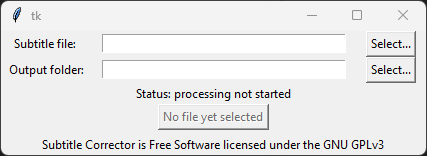
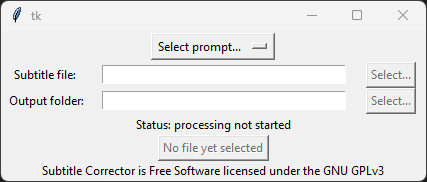
Documentation updated.

diff --git a/subtitlecorrector.py b/subtitlecorrector.py
@@ -141,7 +141,7 @@ Please do not use overly formal language.'''
         except openai.APITimeoutError as e:
             print("Request #{} timed out: {}".format(query_number, e))
             print("Failed query text: {}{}".format(os.linesep, query_str))
-            return(query_str)
+            return (query_str)
         except openai.APIError as e:
             print("API returned error at request #{}: {}".format(query_number, e))
             print("Failed query text: {}{}".format(os.linesep, query_str))

diff --git a/README.md b/README.md
@@ -1,30 +1,44 @@
 # Subtitle Corrector
-This program aims to streamline the process of error checking automatically generated subtitles by leveraging ChatGPT.
+This program is a general purpose subtitle modifier powered by GPT4.
+
+You can use this program for any number of purposes for example:
+- Correcting error filled subtitles from a faulty transcript.
+- Translating a given subtitle from language X to language Y.
+- Turning a horror film into a comedy by making every character speak in outdated slang.
+
 ## Documentation:
-### Installing openai API key:
-Prior to using the program the user has to specify their openai API key so that the program can successfully query chatGPT.
+### Installing OpenAI API key:
+Before you can use the program, your OpenAI api key needs to be present within your environment variables.
+The following are instructions on how to add your API key to your respective operating system.
 #### Windows:
-Press START (The Windows button) and type in environment, you will see the option "edit the system environment variables".
+Press the start key and type in environment. You will then see the option "Edit the system environment variables".
 Click it and a GUI will appear, at the bottom there is a button which says "Environment variables..."
-Click this button and it will take you to a new menu, below the user variables list click "New" and create new variable
+Click this button and it will take you to a new menu, below the user variables list click "new" and create a new variable
 with the name "OPENAI_API_KEY" and with its value being the key itself. Click OK, and now you're done.
-#### macOS/GNU + Linux
+#### MacOS/GNU + Linux
 Open your terminal and run the following commands:
 ```
-echo 'export OPENAI_API_KEY="[insert your key here between the brackets]"' >> ~/.zshrc (.bashrc if on GNU + Linux)
+echo 'export OPENAI_API_KEY="insert your key here between the parentheses"' >> ~/.zshrc (.bashrc if on GNU + Linux)
 ```
 ### Using the program:
 #### GUI
 ![Screenshot](icns/screenshot.png)
-Double click the Executable as with any other program.
-Select the input .srt, and the directory to output the processed .srt; then click "process subtitle file".
+
+Double click the executable as with any other program.
+Select a prompt, then an input file, and finally an output directory. Then click process and wait.
+The program is finished when the terminal outputs: "Queries sent and responses received."
 #### TUI
 You can invoke the program in TUI mode as so:
 ```
-Windows: python3 .\SRT-tui.py example.srt --ofile example_output.srt
-macOS/GNU + Linux: ./SRT-tui.py example.srt --ofile example_output.srt
+Windows: python3 .\SRT-tui.py example.srt --ofile example_output.srt --prompt SCR
+macOS/GNU + Linux: ./SRT-tui.py example.srt --ofile example_output.srt --prompt DTE
 ```
-The program will then query ChatGPT and write it's response to a new file called output.srt, which will be located in the output directory.
+The program will then query ChatGPT and write it's response to the outputfile.
+
+### Errors:
+Since the program queries the OpenAI API asynchronously if a query encounters an exception it will not
+halt the processing of the subtitle file. In the case of an exception, the original input of the failed query will
+be written to the output file in place of the response that would have been recorded had the query not failed.
 
 ### License:
 This program is licensed under the GNU General Public License Version 3, and thus is Free Software. 
